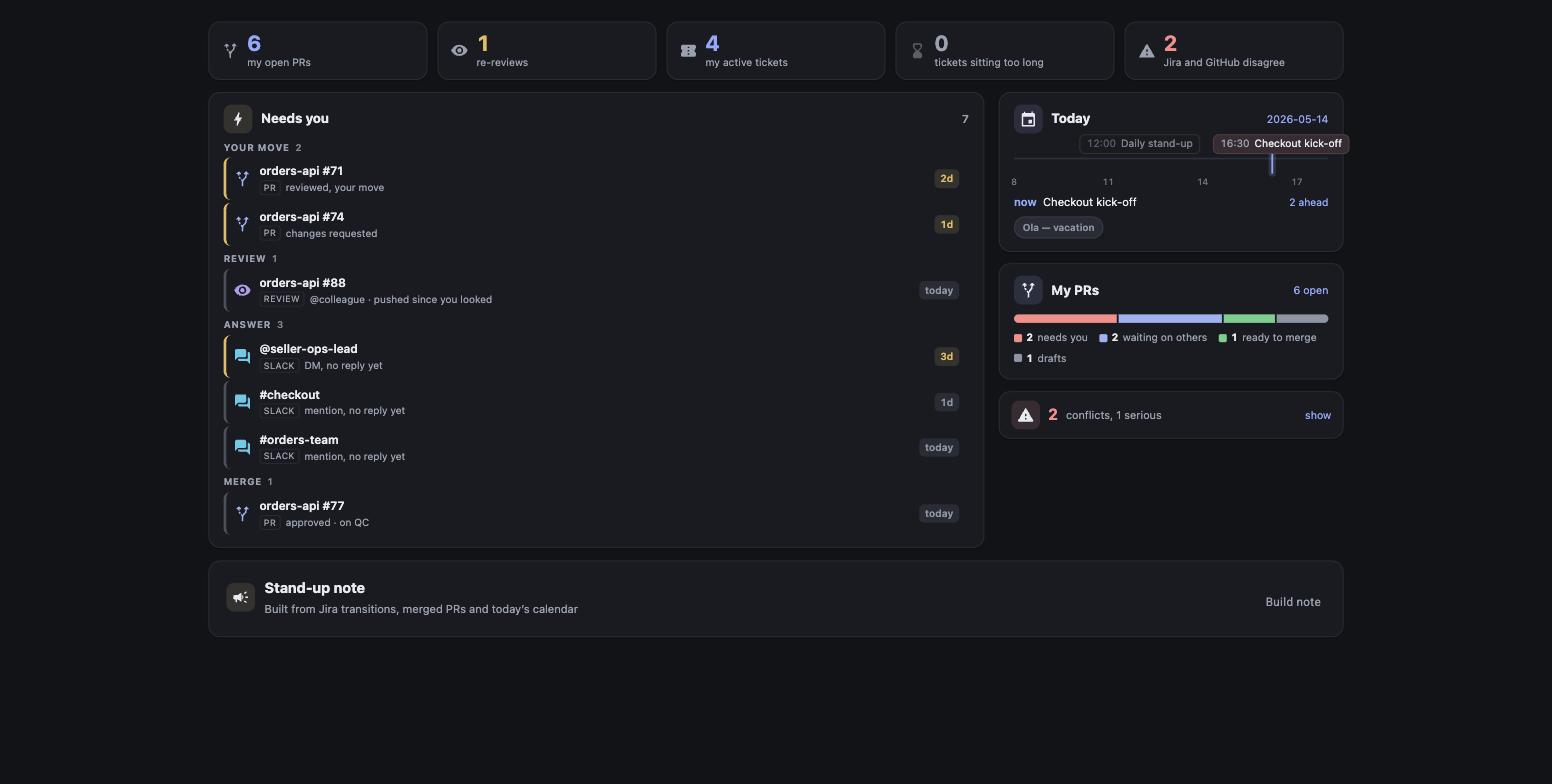
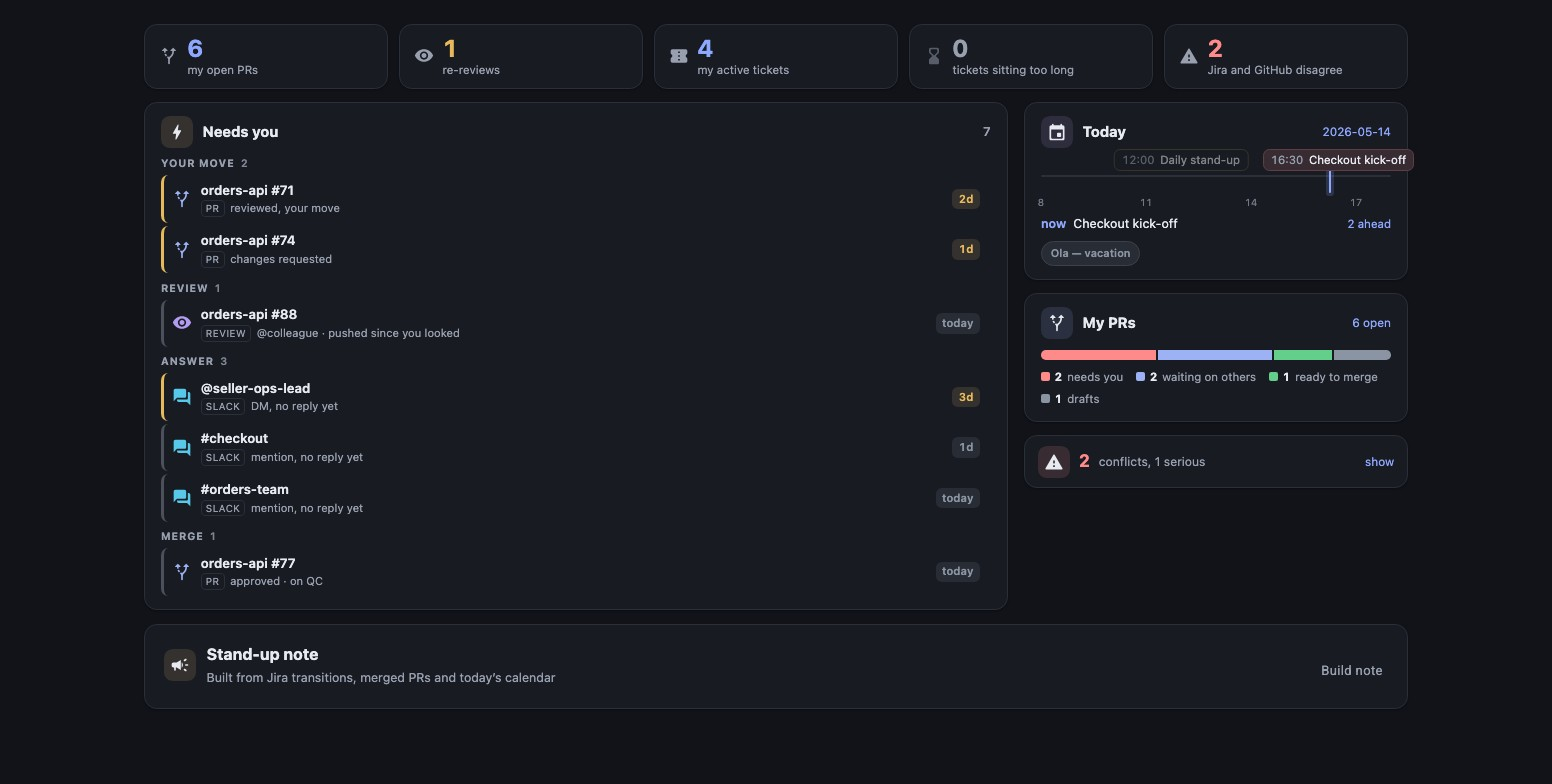
shoot the README screenshots with a script
They had drifted once per redesign, and drifted again today with the timeline change. The
catch-up was Storybook on a hand-picked Node, two URLs, two manual screenshots and two file
copies, which is why it kept being skipped: `npm run shots` is now the whole thing.

It shoots the `Pages/Home` story, not the running app — the story is on the invented
marketplace fixtures, so nothing real can reach a public README. Two details it has to force:
headless Chromium reports prefers-color-scheme light, which produced a picture of a theme
nobody uses, and the dashboard measures itself now, so the shot waits a frame after load
rather than catching the timeline mid-pack.

Both files re-shot through it. The tech-debt entry that asked for this is gone.

diff --git a/TECH-DEBT.md b/TECH-DEBT.md
@@ -17,19 +17,6 @@ network, which the security model says it never will be.
 fallback, and Recharts follows it into its own chunk. Half an hour, and the only risk is the
 chart's CSS custom properties resolving a frame later than the page.
 
-## The README screenshots go stale on every redesign
-
-Currently **up to date** — both palettes were re-shot on the strip-and-queue dashboard. The
-debt is the process, not the files: they have now fallen behind twice, once per redesign, and
-each catch-up needs Storybook running on a hand-picked Node, two URLs, two screenshots and two
-file copies.
-
-**Cost today:** none, until the next visible change to the dashboard.
-
-**Fix:** a script — Playwright against `Pages/Home`, both palettes, writing straight into
-`docs/` — so it is one command rather than ten minutes of clicking. Worth doing the next time
-they drift rather than pre-emptively.
-
 ## The Jira pull reads a changelog per aged ticket
 
 Time-in-status is only in the changelog and the search endpoint refuses

diff --git a/README.md b/README.md
@@ -57,7 +57,8 @@ hover):
 `src/stories/fixtures.ts` via the `Pages/Home` story, not from real reports — those hold
 meeting links and ticket detail and never leave your disk. The fixtures describe an invented
 online marketplace for the same reason. The same story in the Nord palette:
-[docs/home-nord.jpg](docs/home-nord.jpg).
+[docs/home-nord.jpg](docs/home-nord.jpg). Both are re-shot with `npm run shots`, which starts
+Storybook, shoots that story in each palette and writes straight into `docs/`.
 
 ## Running it
 
